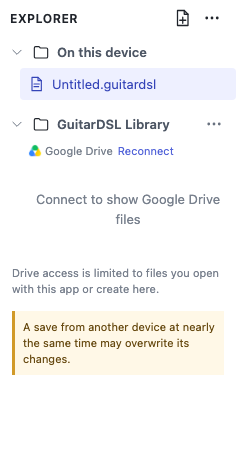
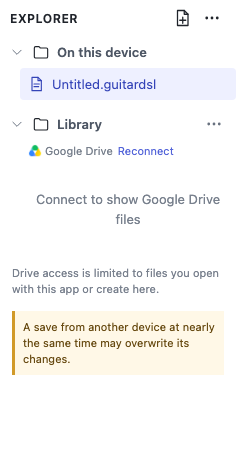
test(web): verify aligned Explorer roots (#180)

Changed region(s): [[0.2373, 0.2489, 0.5042, 0.3111], [0.5339, 0.2489, 0.7119, 0.3111]]

diff --git a/web/test/e2e/workspace.spec.ts b/web/test/e2e/workspace.spec.ts
@@ -3459,8 +3459,13 @@ for (const locale of ['en', 'ja'] as const) {
     if (locale === 'ja') {
       await page.getByRole('button', { name: copy.settings }).click();
       await page.getByRole('menuitemradio', { name: copy.language }).click();
+      await page.getByRole('button', { name: '設定' }).click();
+      await page.getByRole('menuitemradio', { name: 'テーマ: ライト' }).click();
+      await expect(page.locator('#app')).toHaveAttribute('data-theme', 'light');
     }
     const driveRoot = page.locator('[data-storage-section="drive"] .storage-root-row');
+    const localRootLabel = page.locator('#storage-local');
+    const driveRootLabel = page.locator('#storage-drive');
     const connectionRow = page.locator('#drive-connection-row');
     const connect = page.locator('#drive-connect-inline');
     const expectRootHeight = async (): Promise<void> => { await expect(driveRoot).toHaveCSS('height', '32px'); };
@@ -3472,6 +3477,34 @@ for (const locale of ['en', 'ja'] as const) {
       await expect(connect).toHaveText(label);
       await expect(connect).toHaveCSS('white-space', 'nowrap');
     };
+    const expectRootsAligned = async (): Promise<void> => {
+      await expect(localRootLabel).toHaveText(locale === 'ja' ? 'このデバイス' : 'On this device');
+      await expect(driveRootLabel).toHaveText(locale === 'ja' ? 'ライブラリ' : 'Library');
+      const metrics = await page.evaluate(() => {
+        const localSection = document.querySelector<HTMLElement>('[data-storage-section="local"]')!;
+        const driveSection = document.querySelector<HTMLElement>('[data-storage-section="drive"]')!;
+        const localLabel = document.querySelector<HTMLElement>('#storage-local')!;
+        const driveLabel = document.querySelector<HTMLElement>('#storage-drive')!;
+        const localIcon = localSection.querySelector<HTMLElement>('.root-icon')!;
+        const driveIcon = driveSection.querySelector<HTMLElement>('.root-icon')!;
+        return {
+          localHeight: localSection.querySelector('.storage-root-row')?.getBoundingClientRect().height,
+          driveHeight: driveSection.querySelector('.storage-root-row')?.getBoundingClientRect().height,
+          localIconLeft: localIcon.getBoundingClientRect().left,
+          driveIconLeft: driveIcon.getBoundingClientRect().left,
+          localLabelLeft: localLabel.getBoundingClientRect().left,
+          driveLabelLeft: driveLabel.getBoundingClientRect().left,
+          localLabelFits: localLabel.scrollWidth <= localLabel.clientWidth,
+          driveLabelFits: driveLabel.scrollWidth <= driveLabel.clientWidth
+        };
+      });
+      expect(metrics.localHeight).toBe(32);
+      expect(metrics.driveHeight).toBe(32);
+      expect(metrics.localIconLeft).toBe(metrics.driveIconLeft);
+      expect(metrics.localLabelLeft).toBe(metrics.driveLabelLeft);
+      expect(metrics.localLabelFits).toBe(true);
+      expect(metrics.driveLabelFits).toBe(true);
+    };
     const setExplorerWidth = async (width: number): Promise<void> => {
       await page.locator('#workspace').evaluate((element, value) => {
         element.style.setProperty('--explorer-width', `${value}px`);
@@ -3481,8 +3514,9 @@ for (const locale of ['en', 'ja'] as const) {
 
     await expectRootHeight();
     await setExplorerWidth(220);
-    await expect(page.locator('#storage-drive')).toHaveText(locale === 'ja' ? 'ライブラリ' : 'Library');
-    expect(await page.locator('#storage-drive').evaluate(element => element.scrollWidth <= element.clientWidth)).toBe(true);
+    await expect(driveRootLabel).toHaveText(locale === 'ja' ? 'ライブラリ' : 'Library');
+    expect(await driveRootLabel.evaluate(element => element.scrollWidth <= element.clientWidth)).toBe(true);
+    await expectRootsAligned();
     await expectStatusHeight();
     await expectConnectionAction(copy.disconnected);
     await page.evaluate((connectingLabel: string) => {
@@ -3500,8 +3534,29 @@ for (const locale of ['en', 'ja'] as const) {
     await expect(page.locator('#connect-drive')).toHaveAttribute('data-state', 'reauth');
     await expect(connect).toBeVisible();
     await expectConnectionAction(copy.reauth);
+    await expectRootsAligned();
     await expectRootHeight();
+    const connectingHeights = await page.evaluate(() => (window as Window & { __driveConnectingRootHeights?: number[] }).__driveConnectingRootHeights ?? []);
+    expect(connectingHeights.length).toBeGreaterThan(0);
+    expect(connectingHeights.every(height => Math.abs(height - 22) <= 1)).toBe(true);
+
+    await page.locator('#storage-drive').click({ button: 'right' });
+    await expect(page.getByRole('menuitem', { name: copy.reconnectMenu })).toBeVisible();
+    await expectRootsAligned();
+    await page.keyboard.press('Escape');
+    await expectRootHeight();
+    expect((await connect.getAttribute('title'))?.startsWith(copy.reauthDescription)).toBe(true);
+    await page.locator('[data-storage-expander="drive"]').click();
+    await expect(page.locator('#drive-storage-content')).toBeHidden();
+    await expect(connectionRow).toBeVisible();
+    await expectRootsAligned();
+    await expectStatusHeight();
+    await page.locator('[data-storage-expander="drive"]').click();
+    await expect(page.locator('#drive-storage-content')).toBeVisible();
+    await expectRootsAligned();
+
     await setExplorerWidth(236);
+    await expectRootsAligned();
     await expectStatusHeight();
     if (process.env.GUITARDSL_CAPTURE_ISSUE180 === '1' && locale === 'en'
       && page.context().browser()?.browserType().name() === 'chromium') {
@@ -3509,19 +3564,6 @@ for (const locale of ['en', 'ja'] as const) {
       await mkdir(evidenceDir, { recursive: true });
       await page.locator('.file-list').screenshot({ path: resolve(evidenceDir, 'library-connection-row-runtime.png') });
     }
-    const connectingHeights = await page.evaluate(() => (window as Window & { __driveConnectingRootHeights?: number[] }).__driveConnectingRootHeights ?? []);
-    expect(connectingHeights.length).toBeGreaterThan(0);
-    expect(connectingHeights.every(height => Math.abs(height - 22) <= 1)).toBe(true);
-
-    await page.locator('#storage-drive').click({ button: 'right' });
-    await expect(page.getByRole('menuitem', { name: copy.reconnectMenu })).toBeVisible();
-    await page.keyboard.press('Escape');
-    await expectRootHeight();
-    expect((await connect.getAttribute('title'))?.startsWith(copy.reauthDescription)).toBe(true);
-    await page.locator('[data-storage-expander="drive"]').click();
-    await expect(page.locator('#drive-storage-content')).toBeHidden();
-    await expect(connectionRow).toBeVisible();
-    await expectStatusHeight();
   });
 }
 
@@ -3543,6 +3585,30 @@ test('shows the connected Japanese Drive status in dark theme at 220px', async (
   const rootLabel = page.locator('#storage-drive');
   await expect(rootLabel).toHaveText('ライブラリ');
   expect(await rootLabel.evaluate(element => element.scrollWidth <= element.clientWidth)).toBe(true);
+  const rootRowsAligned = await page.evaluate(() => {
+    const local = document.querySelector<HTMLElement>('[data-storage-section="local"]')!;
+    const drive = document.querySelector<HTMLElement>('[data-storage-section="drive"]')!;
+    const localLabel = local.querySelector<HTMLElement>('#storage-local')!;
+    const driveLabel = drive.querySelector<HTMLElement>('#storage-drive')!;
+    const localIcon = local.querySelector<HTMLElement>('.root-icon')!;
+    const driveIcon = drive.querySelector<HTMLElement>('.root-icon')!;
+    return {
+      localHeight: local.querySelector('.storage-root-row')?.getBoundingClientRect().height,
+      driveHeight: drive.querySelector('.storage-root-row')?.getBoundingClientRect().height,
+      localIconLeft: localIcon.getBoundingClientRect().left,
+      driveIconLeft: driveIcon.getBoundingClientRect().left,
+      localLabelLeft: localLabel.getBoundingClientRect().left,
+      driveLabelLeft: driveLabel.getBoundingClientRect().left,
+      localLabelFits: localLabel.scrollWidth <= localLabel.clientWidth,
+      driveLabelFits: driveLabel.scrollWidth <= driveLabel.clientWidth
+    };
+  });
+  expect(rootRowsAligned.localHeight).toBe(32);
+  expect(rootRowsAligned.driveHeight).toBe(32);
+  expect(rootRowsAligned.localIconLeft).toBe(rootRowsAligned.driveIconLeft);
+  expect(rootRowsAligned.localLabelLeft).toBe(rootRowsAligned.driveLabelLeft);
+  expect(rootRowsAligned.localLabelFits).toBe(true);
+  expect(rootRowsAligned.driveLabelFits).toBe(true);
   await expect(connectionRow).toContainText('Google Drive');
   await expect(connectionRow).toContainText('接続済み');
   await expect(connectionRow.locator('.drive-status-dot')).toBeVisible();

diff --git a/docs/specs/web-app.md b/docs/specs/web-app.md
@@ -49,7 +49,7 @@ The numbered sections below define the Web application's normative behavior. The
 - The workspace has exactly one global display mode: Source, Split, or Score. Split is the default. The three icon-only controls MUST be mutually exclusive, expose `aria-pressed`, and have Japanese and English `aria-label` and `title` text. The global mode is independent of the Preview's existing normal, edit, and practice modes. Source and Score modes hide the opposite pane and the internal splitter.
 - The three workspace view controls occupy the right side of the 36 px document tab row. The workspace MUST NOT add a second title or toolbar row between the tabs and the Source/Score panes. Preview playback and settings controls remain in the Preview's existing 48 px row.
 - With no open document tabs, the tab row and editor workspace beneath it MUST show only their theme-appropriate background, with no horizontal separator below the empty tab row. The Source editor, including its gutter, the Score pane, and empty-state text MUST be hidden from the rendered view and accessibility tree. Their stable editor hosts remain mounted. Opening a document shows the panes according to the selected workspace mode and layout.
-- Explorer MUST show the “On this device” and “GuitarDSL Library” roots at the same time. Each root expands and collapses independently. The library is the visible GuitarDSL folder at the top level of My Drive; its 32 px root row has a disclosure chevron, ordinary folder icon, localized library name, and secondary Drive connection state. Its folders load lazily as a physical tree. The local root keeps its local folder icon. The heading reads EXPLORER in English and エクスプローラー in Japanese; related visible and accessibility labels use the active locale. The functional options menu and library root menu expose their contracted actions. New-score creation asks for a base filename without an extension, defaults to Untitled, and always appends exactly .guitardsl; a typed .guitardsl or .gdsl suffix is stripped case-insensitively before the fixed extension is added. Cancelling the prompt MUST create no local document, tab, active-document change, or creation notice. Local creation and import remain available offline. Library rows remain 32 px in disconnected, connecting, connected, and expired states. A connected root shows account status and accessible child items, not a claim of a complete Drive listing. Drive account and root discovery MUST follow §5; folder selection MUST NOT imply permission to enumerate every child.
+- Explorer MUST show the localized “On this device” (`このデバイス`) and “Library” (`ライブラリ`) roots at the same time. Each root expands and collapses independently. Both roots use the same 32 px row geometry, with aligned disclosure chevrons, folder icons, and title insets; the Drive row also retains its options menu. The Library root represents the visible GuitarDSL folder at the top level of My Drive; its row has an ordinary folder icon, localized Library label, and secondary Drive connection state. Its folders load lazily as a physical tree. The heading reads EXPLORER in English and エクスプローラー in Japanese; related visible and accessibility labels use the active locale. The functional options menu and library root menu expose their contracted actions. New-score creation asks for a base filename without an extension, defaults to Untitled, and always appends exactly .guitardsl; a typed .guitardsl or .gdsl suffix is stripped case-insensitively before the fixed extension is added. Cancelling the prompt MUST create no local document, tab, active-document change, or creation notice. Local creation and import remain available offline. Library rows remain 32 px in disconnected, connecting, connected, and expired states. A connected root shows account status and accessible child items, not a claim of a complete Drive listing. Drive account and root discovery MUST follow §5; folder selection MUST NOT imply permission to enumerate every child.
 - Explorer file rows MUST be 30–32 px high, one line, and include the 16 px SVG file icon. Only the active document row has the selected state. The active row comparison MUST use the complete document identity and, for Drive, the account ID. The selected background MUST NOT use a left-edge accent stripe. Modified time may be exposed as title/accessibility metadata but MUST NOT appear as a second visible row.
 - The Inspector heading is 36 px, reads `Inspector` in English and `インスペクタ` in Japanese in both its visible title and accessible pane name, and has an ellipsis menu with exactly Close Inspector and Reset width to default (300 px). The default Web Inspector tab is Variables; its existing empty state is used when the active score has no variables. The Inspector remains above Problems on the right Tool Window Bar, with no duplicate Inspector action in the Activity Bar. The Inspector control MUST show its active state when its saved open state is true.
 - A narrow viewport MUST avoid horizontal overflow. When the available width is insufficient, the Inspector and then Explorer are temporarily collapsed in that order. Width-driven collapse MUST NOT overwrite a user's saved manual open/closed state. The user can reopen a collapsed region from its adjacent tool-window control.
@@ -90,7 +90,7 @@ The numbered sections below define the Web application's normative behavior. The
 
 ### GuitarDSL Library root
 
-- The Drive root is labeled GuitarDSL Library in English and Japanese. Its physical root is a visible folder named GuitarDSL at the top level of My Drive. The library consists only of that app-managed root and real folders and score files created or imported into it. It is not a Drive-wide mirror, virtual folder, or complete synchronization claim.
+- The Explorer display label for the Drive root is `Library` in English and `ライブラリ` in Japanese; the physical Drive folder remains named `GuitarDSL` at the top level of My Drive. The library consists only of that app-managed root and real folders and score files created or imported into it. It is not a Drive-wide mirror, virtual folder, or complete synchronization claim.
 - On connection, discover the accessible top-level My Drive folder named GuitarDSL. Reuse that same folder ID; the current appData selectedFolderId may identify it only after its name, folder MIME type, and My Drive root parent are verified. When the canonical folder has no app marker, set appProperties guitardslLibraryRoot=1 and read it back before committing selectedFolderId or the tree. Ask for confirmation only when creating a new root because no eligible existing root is available.
 - Do not migrate an arbitrary previous folder ID or old local Drive-folder setting. Do not copy, move, or delete content from another folder. A folder elsewhere or with another name is outside this library. The appData schema version 1 remains the current format, and selectedFolderId records the verified canonical root.
 - The app MUST NOT ask Picker to select a destination folder. The only Picker flow is for importing files into the library.
@@ -137,7 +137,7 @@ The numbered sections below define the Web application's normative behavior. The
 ### Observable behavior
 
 - After startup without Google authentication, users can create and edit a local document, see diagnostics and score Preview, use the Inspector and playback, retain a draft through refresh, and download a PDF.
-- Explorer keeps This device and GuitarDSL Library visible together. Local create/import/export/delete actions remain available offline. Library actions require connection; open tabs retain their original {storage, fileId} identity when the account or library changes.
+- Explorer keeps This device (`このデバイス`) and Library (`ライブラリ`) visible together with aligned root-row geometry. Local create/import/export/delete actions remain available offline. Library actions require connection; open tabs retain their original {storage, fileId} identity when the account or library changes.
 - The library root shows its connection and access state, accessible folder tree, loading, empty, and error states. It never claims to show every Drive child. Folders load lazily. Local documents and drafts remain available if a library request fails.
 - Selecting the same file twice selects the existing tab. Closing a tab retains its local draft and any recoverable Drive draft. Closing the last tab leaves the tab row and editor workspace beneath it as theme-colored background only, with no horizontal separator below the tab row; the Source editor, gutter, Score pane, and empty-state text are hidden from view and accessibility while stable editor hosts remain mounted. Opening a document restores the selected workspace mode and layout.
 - The Preview and Inspector show derived state for the active document revision. An edit from either surface either applies to that same revision as one source edit or makes no source change and reports that the edit is stale.

diff --git a/docs/status/implementation-status.md b/docs/status/implementation-status.md
@@ -22,8 +22,8 @@
 - **表示名（2026-11-21 / PR #185）**: Explorerのライブラリルートは日本語「ライブラリ」、英語「Library」に短縮する。フォルダー・展開・メニューの余白と幅220pxは維持。Google Drive上の実フォルダ名 `GuitarDSL`、ID、OAuth、保存処理、初回設定画面の製品名は変更しない。
 - **機能**: Explorerに実フォルダー階層と対応する楽譜を遅延表示。Pickerは選択元を変更せず、選択したライブラリフォルダーへのコピーインポートだけを行う。フォルダー作成・名前変更、楽譜の名前変更・複製・ライブラリ内移動、右クリックとShift+F10のメニュー、Google Driveで開く操作を追加。
 - **レビュー指摘対応（2026-11-21）**: Driveにあるファイルの実MIME型が`text/plain`または`application/octet-stream`の場合だけPicker選択とCOPYを許可し、作成されたコピーのMIME型もreadbackで検証する。COPY前に保存するjournalには本文を含めず、UTF-8本文のSHA-256を保存して、成功判定・既知ID・操作markerの復旧時に内容一致を確認する。digestのない旧journalは元ファイルを再読込し、現在の本文とコピーが一致した場合のみ復旧し、それ以外は未解決のまま保持してCOPYを再試行しない。Safari smoke fixtureにも許可MIME型を設定した。Explorerに32pxのライブラリ行と22pxのGoogle Drive状態行を実装し、幅220px/236px、英語/日本語、折りたたみ状態を検証。
-- **検証（2026-11-21 / PR #185の最新レビュー `7054800348` 対応後）**: `npm run compile:all`、`npm run check:help`、`npm run check:ai`はPASS。`npm run test:web`はWeb unit 67/67、Chromium/WebKit 210/210 PASS。production PWA E2E 2/2 PASS。Safari 26.6.2 smokeは7/7 PASS（mocked OAuth/Picker/Drive）。VS Code拡張に影響しないWeb専用変更のため、ユーザー指示に従ってVS Code Extension E2Eは省略。
-- **画面証拠**: [接続ダイアログ、接続状態行、Driveルートメニュー、日本語ダークテーマ220pxの接続済み状態を含むChromiumスクリーンショット](evidence/issue-180/README.md)。OAuth/Drive APIはモックで、本番Googleアカウントの画面ではない。
+- **検証（2026-11-21 / 表示名・配置の確認）**: `npm run check:help`、`npm run check:ai`、`python3 -m agent_workflow validate-docs --issue 180`、`git diff --check`はPASS。ルートの幅220/236px・日英・折りたたみ状態を確認するChromium E2Eは3/3 PASS。保存・改名競合の該当テストはローカル限定再実行でChromium/WebKit各1/1 PASS。PR HEAD `a138ef1` のGitHub Actionsは`agent-required-check`と`safari-smoke`がPASS、`web-spa-chromium`と`web-spa-webkit`が同じ保存・改名テストでFAIL（再読込後、接続状態が5秒以内に`connecting`から完了しない）。この作業ツリーで全Web suiteは未実行。VS Code拡張に影響しないWeb専用変更のため、ユーザー指示に従ってVS Code Extension E2Eは省略。
+- **画面証拠**: [ローカルとDriveルートの位置を揃えた接続状態行、日本語ダークテーマ220pxの接続済み状態を含むChromiumスクリーンショット](evidence/issue-180/README.md)。OAuth/Drive APIはモックで、本番Googleアカウントの画面ではない。
 - **未検証**: 実Google OAuth/Drive、本番Googleアカウント上のアクセス、iOS/iPadOS SafariはNOT RUN。OAuth/Drive APIはテストでmock。
 - **注意事項**: Vite buildは既存の500 kB超chunk warningを出すが成功。wasm-packはこの環境用の事前ビルド済みwasm-bindgenを取得できず、cargo install fallbackで `vscode:prepublish` が成功。実Google OAuth/DriveはNOT RUN。
 

diff --git a/docs/status/evidence/issue-180/README.md b/docs/status/evidence/issue-180/README.md
@@ -1,16 +1,16 @@
 # Issue #180 — Google Drive library evidence
 
-Captured on 2026-11-21. The original design preview is retained alongside rendered runtime screenshots from the Chromium E2E flow. Runtime screenshots use mocked Google OAuth and Drive APIs; they do not show a live account or production Drive session. Existing screenshots of the 220/236 px rows were captured before the Explorer root display label was shortened from `GuitarDSL Library` / `GuitarDSL ライブラリ` to `Library` / `ライブラリ`; the actual folder in Drive remains named `GuitarDSL`. Re-capture runtime evidence after the label-only change before final visual sign-off.
+Captured on 2026-11-21. The original design preview is retained alongside rendered runtime screenshots from the Chromium E2E flow. Runtime screenshots use mocked Google OAuth and Drive APIs; they do not show a live account or production Drive session. Runtime screenshots now show the shortened Explorer root labels `Library` / `ライブラリ`, while the physical folder in Drive remains named `GuitarDSL`. The local and Drive root labels share aligned folder icons and title insets at the standard Explorer width.
 
-- [Rendered connection status row in English at 236 px Explorer width](library-connection-row-runtime.png)
-- [Rendered connected row in Japanese dark theme at 220 px Explorer width](library-connection-row-connected-ja-dark-220-runtime.png)
+- [Rendered aligned roots and connection status in English at 236 px Explorer width](library-connection-row-runtime.png)
+- [Rendered aligned roots with connected Japanese dark status at 220 px Explorer width](library-connection-row-connected-ja-dark-220-runtime.png)
 - [Design preview — library setup and Drive root menu](library-setup.png)
 - [Rendered setup dialog — mocked Drive](library-setup-runtime.png)
 - [Rendered library root menu — mocked Drive](library-root-menu-runtime.png)
 - Design source: [`docs/specs/gui_design/proposals/issue-180/`](../../../specs/gui_design/proposals/issue-180/)
 
-![Google Drive connection row at the verified compact Explorer width](library-connection-row-runtime.png)
+![This device and Library roots aligned with the Google Drive Reconnect row at the verified compact Explorer width](library-connection-row-runtime.png)
 
-![Google Drive connected status in Japanese dark theme at 220 px](library-connection-row-connected-ja-dark-220-runtime.png)
+![このデバイス and ライブラリ roots aligned with the connected Google Drive status in Japanese dark theme at 220 px](library-connection-row-connected-ja-dark-220-runtime.png)
 
 Automated Chromium, WebKit, PWA, and Safari checks use mocked Google OAuth and Drive APIs. Live Google OAuth/Drive behavior was not exercised.
